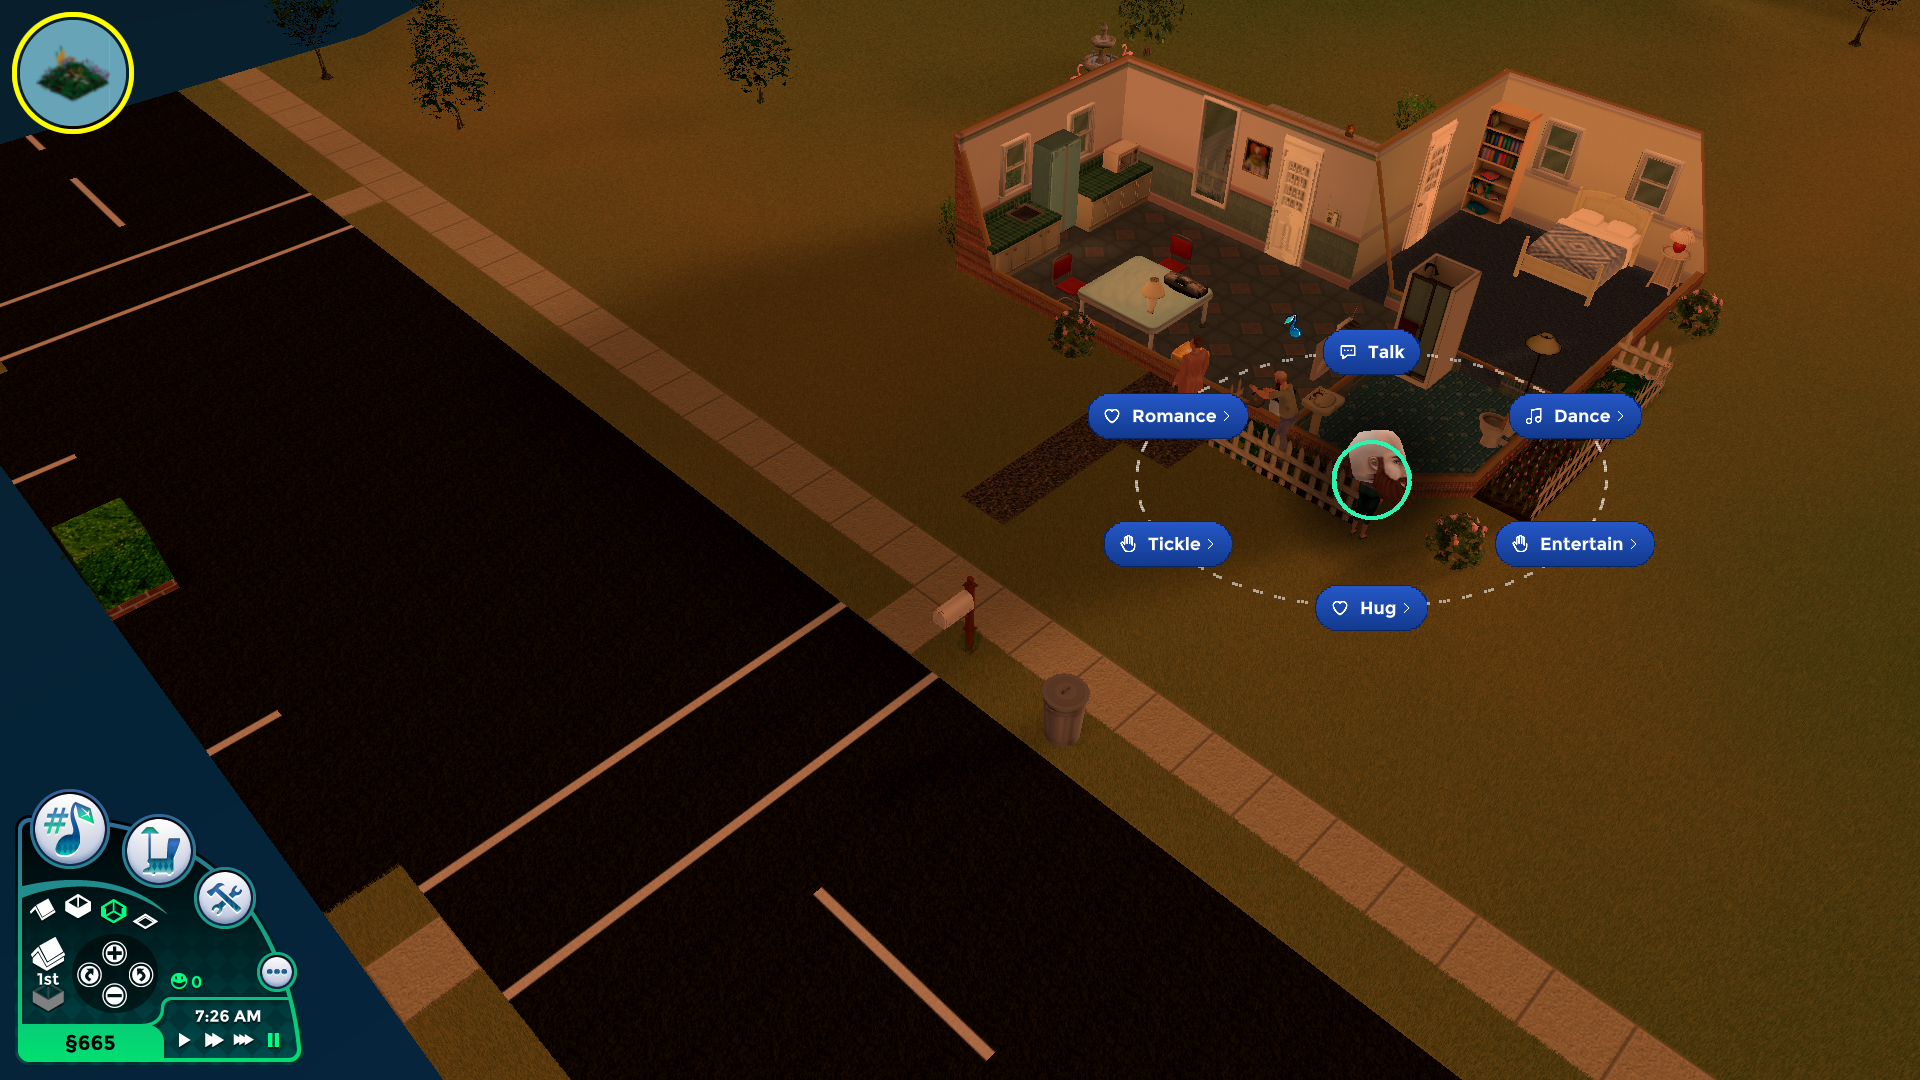
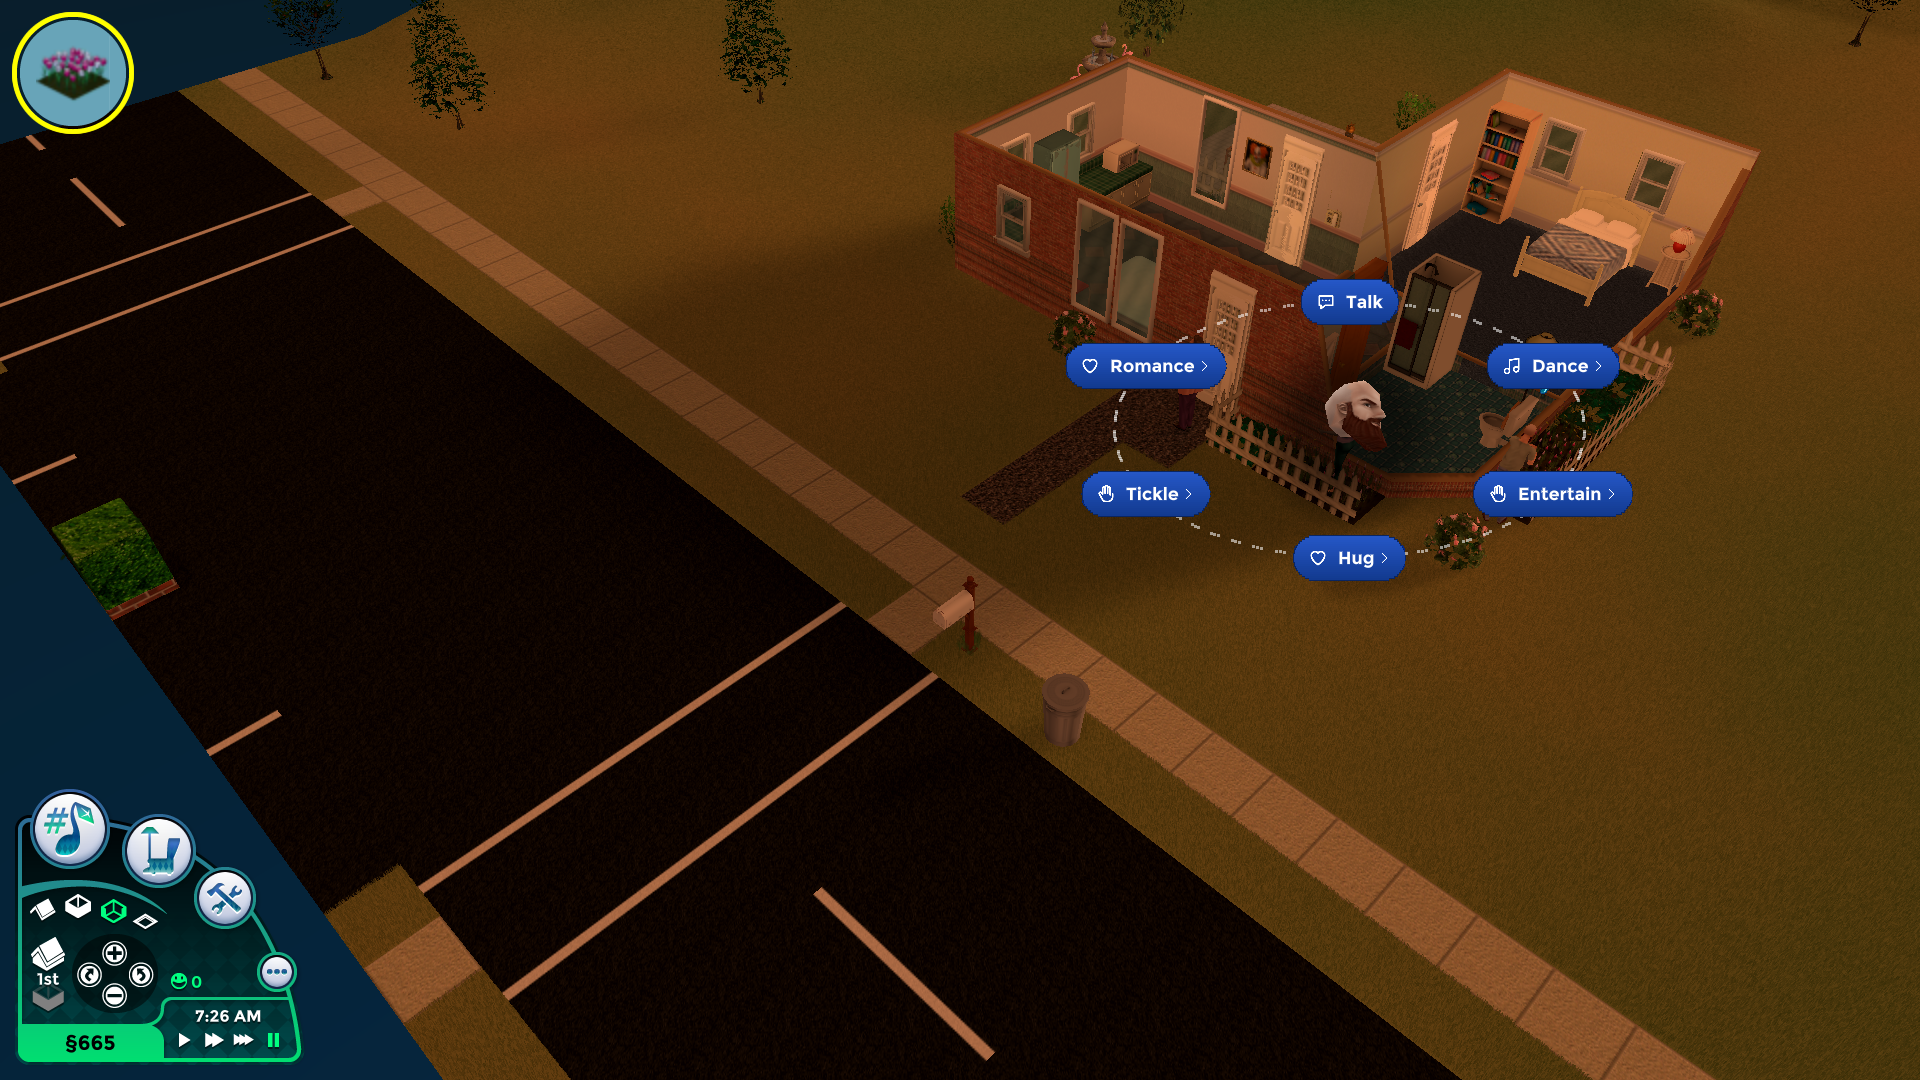
HtmlSurface can rotate what it draws; pie hover slot tilts like the design; remove the green hub ring

Changed region(s): [[0.5, 0.1222, 0.875, 0.6111], [0.875, 0.1222, 0.9375, 0.275], [0.0, 0.0306, 0.0625, 0.0917]]

diff --git a/Tools/Conversations/Game/HtmlSurface.cs b/Tools/Conversations/Game/HtmlSurface.cs
@@ -117,7 +117,25 @@ namespace Simitone.Conversations
         // ---- IPainter ----
         // the game blends with premultiplied alpha
         static Color C(Rgba c) { return Color.FromNonPremultiplied(c.R, c.G, c.B, c.A); }
-        void Rect(float x, float y, float w, float h, Color c) { if (w > 0 && h > 0) owner.DrawLocalTexture(batch, px, null, new Vector2(x, y), new Vector2(w, h), c); }
+        // Optional rotation of everything drawn until ClearRotation (the engine's sprite batch rotates textures): every piece is moved
+        // round the pivot and drawn turned by the same angle, so a rounded slot turns as one shape. Text is placed glyph by glyph along
+        // the turned baseline (glyphs themselves stay upright, which is exact enough for the few degrees the design asks for).
+        float rotCos = 1, rotSin = 0, rotX, rotY, rotRad;
+        bool rotating;
+        public void SetRotation(float pivotX, float pivotY, float radians) { rotating = Math.Abs(radians) > 1e-4f; rotX = pivotX; rotY = pivotY; rotRad = radians; rotCos = (float)Math.Cos(radians); rotSin = (float)Math.Sin(radians); }
+        public void ClearRotation() { rotating = false; }
+        Vector2 Turn(float x, float y)
+        {
+            float dx = x - rotX, dy = y - rotY;
+            return new Vector2(rotX + dx * rotCos - dy * rotSin, rotY + dx * rotSin + dy * rotCos);
+        }
+
+        void Rect(float x, float y, float w, float h, Color c)
+        {
+            if (w <= 0 || h <= 0) return;
+            if (!rotating) { owner.DrawLocalTexture(batch, px, null, new Vector2(x, y), new Vector2(w, h), c); return; }
+            owner.DrawLocalTexture(batch, px, null, Turn(x, y), new Vector2(w + 1.6f, h + 1.6f), c, rotRad);   // a little larger: the engine snaps each piece to whole pixels, which would leave hairline gaps
+        }
 
         // rounded rectangle as a centre block plus one strip per corner row; colorAt(t) gives the colour at relative height t (0 top .. 1 bottom)
         void Rounded(float x, float y, float w, float h, float r, Func<float, Color> colorAt)
@@ -202,7 +220,14 @@ namespace Simitone.Conversations
 
         public void DrawText(string text, float x, float y, float size, bool bold, Rgba color)
         {
-            owner.DrawLocalString(batch, text, new Vector2(x, y), Style(size, color));
+            var st = Style(size, color);
+            if (!rotating) { owner.DrawLocalString(batch, text, new Vector2(x, y), st); return; }
+            for (int i = 0; i < text.Length; i++)
+            {
+                if (text[i] == ' ') continue;
+                float before = i == 0 ? 0 : st.MeasureString(text.Substring(0, i)).X;
+                owner.DrawLocalString(batch, text[i].ToString(), Turn(x + before, y), st);
+            }
         }
 
         public void MeasureText(string text, float size, bool bold, out float w, out float h)
@@ -227,7 +252,10 @@ namespace Simitone.Conversations
             }
             if (icons == px) return;
             int cellPx = icons.Width / 8;
-            owner.DrawLocalTexture(batch, icons, new Rectangle((cell % 8) * cellPx, (cell / 8) * cellPx, cellPx, cellPx), new Vector2(x, y), new Vector2(size / cellPx, size / cellPx), C(color));
+            var src = new Rectangle((cell % 8) * cellPx, (cell / 8) * cellPx, cellPx, cellPx);
+            var scale = new Vector2(size / cellPx, size / cellPx);
+            if (!rotating) { owner.DrawLocalTexture(batch, icons, src, new Vector2(x, y), scale, C(color)); return; }
+            owner.DrawLocalTexture(batch, icons, src, Turn(x + size / 2, y + size / 2), scale, C(color), rotRad, new Vector2(cellPx / 2f, cellPx / 2f));
         }
     }
 }

diff --git a/Tools/Conversations/Game/PieOverlay.cs b/Tools/Conversations/Game/PieOverlay.cs
@@ -139,8 +139,7 @@ namespace Simitone.Conversations
             }
         }
 
-        // the design's dashed ellipse through the slots and the accent ring round the Sim in the middle (the engine only paints
-        // axis-aligned rectangles, so the dashes are small squares placed along the curve and the ring is a rounded outline)
+        // the design's dashed ellipse through the slots and the accent ring round the Sim in the middle (dashes are small squares placed along the curve)
         void DrawOrbit(float ox, float oy, bool hasBack)
         {
             float ry = ringRy, rx = ry * 235f / 128f;
@@ -154,7 +153,6 @@ namespace Simitone.Conversations
                 if (phase > (drawing ? on : off)) { phase = 0; drawing = !drawing; }
                 if (drawing) painter.FillRect(ox + (float)x - 1.5f, oy + (float)y - 1.5f, 3, 3, dash, 1);
             }
-            if (!hasBack) painter.StrokeRect(ox - 40, oy - 40, 80, 80, Token("accent", new Rgba(46, 242, 176)), 4, 40);
         }
 
         void DrawSlot(float nx, float ny, float nw, float nh, string caption, bool back)
@@ -173,12 +171,14 @@ namespace Simitone.Conversations
             var edge = Token("pie-edge", new Rgba(10, 37, 97));
             var ink = white;
             if (hover) { a = new Rgba(180, 255, 230); bcol = Token("accent-2", new Rgba(0, 217, 139)); edge = bcol; ink = Token("on-accent", new Rgba(3, 48, 42)); }   // mint "on" slot with dark text
+            if (hover) painter.SetRotation(x + w / 2, y + h / 2, -1.5f * (float)Math.PI / 180f);   // the design tilts the "on" slot by -1.5 degrees
             painter.FillRect(x - 1, y - 1, w + 2, h + 2, edge, h / 2 + 1);
             painter.FillGradient(x, y, w, h, a, bcol, false, h / 2);
             float cx = x + 14 * grow;
             painter.DrawIcon(Icons.Find(back ? "left" : PieStyle.IconFor(full)), cx, y + (h - IconSize) / 2, IconSize, ink);
             painter.DrawText(label, cx + IconSize + 10, y + (h - th) / 2, TextSize, false, ink);
             if (sub) painter.DrawIcon(Icons.Find("right"), x + w - 14 - 14, y + (h - 14) / 2, 14, ink);   // "..." marks a submenu
+            painter.ClearRotation();
         }
 
         Rgba Token(string name, Rgba fallback)
